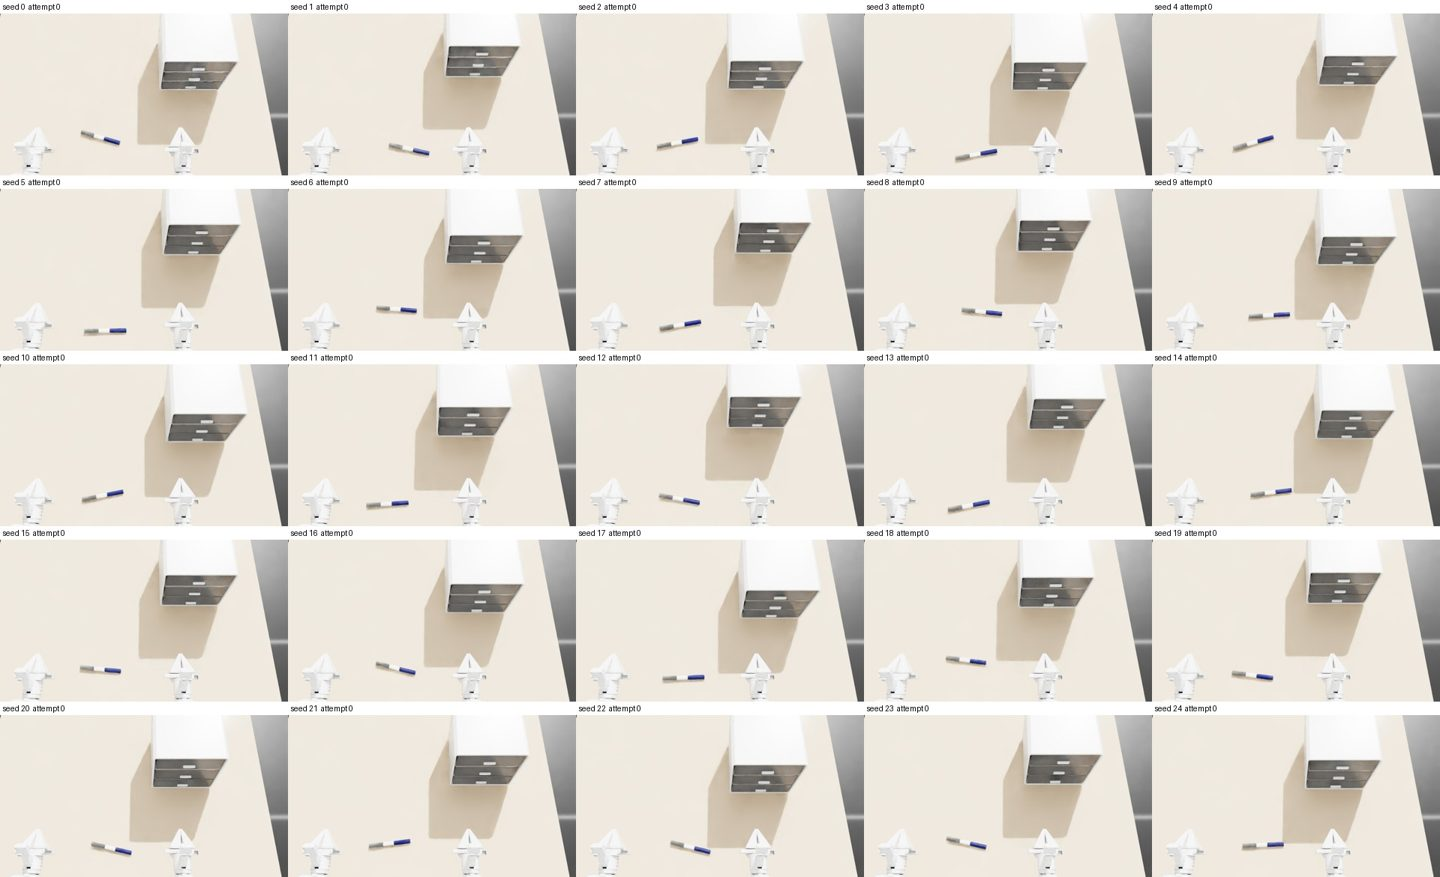
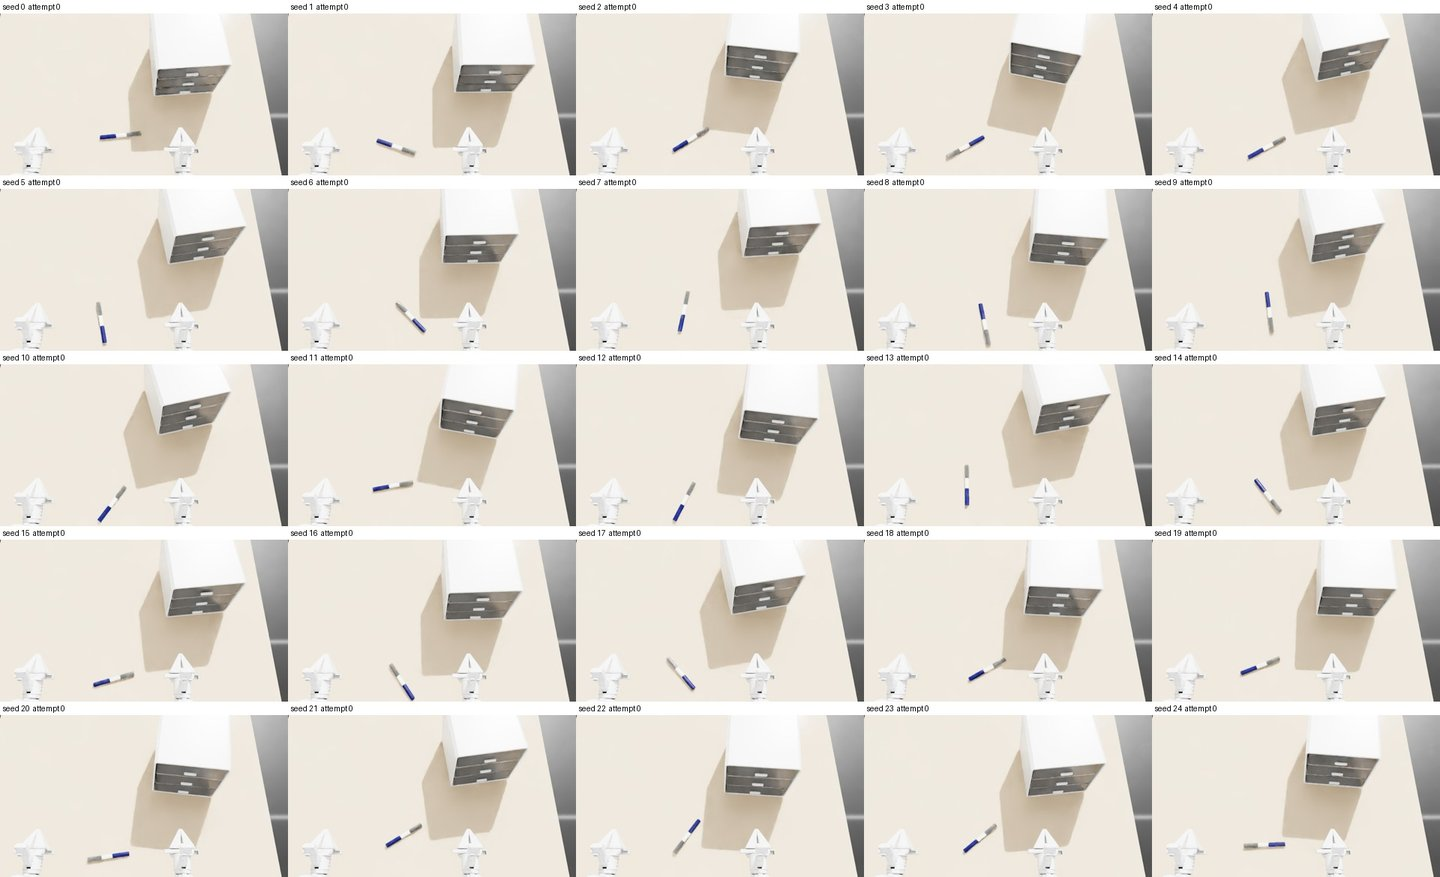
第四章与场景缩略图：新随机化与 3e2c8a0 批量结果

diff --git a/docs/tutorials/04-scene.md b/docs/tutorials/04-scene.md
@@ -84,12 +84,16 @@ def solve(ctx):
 | 运动原语 | 到把手前方用 `move_to_pose_with_RRTConnect`，贴近、拉动、后撤用 `move_to_pose_with_screw`；`open_gripper`、`close_gripper` |
 | 接触许可 | 抓把手前 `allow(['cabinet:cabinet.drawer3.handle'])`，松开后撤销；拉抽屉时 `carry` 把抽屉当作随手移动的物体；笔夹起后 `attach` |
 | 几何查询 | 把手、抽屉前板、内腔、底板的包围盒（`ctx.geometry['cabinet'].bounds(部件, 刚体)`），笔的质心（`ctx.center_of_mass`），抽屉开度（`ctx.joint('cabinet', 'cabinet_drawer3_slide')`） |
-| 抓取几何 | `build_grasp_pose(接近方向, 闭合方向, 中心)`：把手从前方斜向下 30° 接近，两指夹住把手两端；笔从上方接近，在质心处横夹 |
+| 抓取几何 | `build_grasp_pose(接近方向, 闭合方向, 中心)`：把手从前方斜向下 30° 接近，两指夹住把手两端；笔在质心处横夹，从上方接近 |
 
 所有目标都由物体当下的位姿和资产几何算出，不按 seed 写特例。重试只有列明的几种：
 
 - 后撤距离与抬起高度按候选依次尝试（`first_reachable`）；
+- 抓笔：笔可能朝任意方向，候选依次是两种对称的手腕转向（先试闭合方向更接近机器人后方的一种），每种先竖直接近，再绕笔轴侧倾 ±20°（笔身是圆柱，侧倾仍是横夹）；
+- 放笔：笔在抽屉里朝哪头都行，也可以相对抽屉转 ±20°（笔长 0.18 m，抽屉内宽 0.25 m、露出约 0.11 m），手倾斜 40° 或 20°；先试手腕转动最少的方向；
 - 拉抽屉分 3 段，每段检查抽屉是否跟上，跟不上就松手重抓，最多 2 次。
+
+候选是物理上等价的几种做法，不是针对某个 seed 的特例。最初只有一种抓法和一种放法，笔大致顺着机器人前后方向时够不着，柜子转离右手时放不进去，100 个 seed 只成功 63 个。
 
 失败用 `ctx.fail(原因)` 结束，记录子任务。
 
@@ -112,23 +116,19 @@ uv run python scripts/scenes/generate.py 000000 --seeds 0:100 --output outputs/s
 uv run python scripts/scenes/summarize.py outputs/scenes/000000/gen/part* --output outputs/scenes/000000/gen/summary.json
 ```
 
-本例结果：在提交 3d648a5 上，seed 0–99 分 4 个进程并行生成。
+本例结果：在提交 3e2c8a0 上，seed 0–99 分 4 个进程并行生成。
 
 - 初态全部第一次通过。
-- 成功 97 条，平均 27.4 s（684 步）。各子任务平均用时：开抽屉 9.5 s，拿笔 4.7 s，放笔 4.8 s，关抽屉 8.4 s。
-- 没有意外接触。手指碰过的只有把手和笔，另有 2 条碰到了抽屉前板。
-- 每条墙钟约 54 s：
-  - 规划 22 s：每条 3 次 RRTConnect，每次约 6.9 s；另有约 16 次直线规划，每次约 0.1 s；
-  - 执行 24 s；
-  - 初态 1.8 s。
-- 失败 3 条（seed 30、35、90），都在 `close the drawer`：
-  - 笔放进抽屉后一端翘起 2–4°；
-  - 之前抽屉已被推进一些，关抽屉时被卡住；
-  - 35、90 在柜子移动 1.6 cm、2.2 cm 时停止；30 重新抓把手时抓空。
+- 成功 98 条，平均 27.7 s（692 步）。各子任务平均用时：开抽屉 9.4 s，拿笔 5.0 s，放笔 5.1 s，关抽屉 8.2 s。
+- 用到候选：14 条换了抓笔方式，20 条换了放笔方式。
+- 没有意外接触。手指碰过的只有把手和笔，另有 3 条碰到了抽屉前板。
+- 每条墙钟平均 63 s，最长 152 s：
+  - 规划 32 s：每条平均 5.6 次 RRTConnect，每次约 5.4 s，其中一部分是失败候选的尝试；另有约 18 次直线规划，每次约 0.1 s；
+  - 执行 23 s；
+  - 初态 1.7 s。
+- 失败 2 条（seed 24、40），都在 `close the drawer`：40 关抽屉时卡住，柜子移动 2.4 cm 时停止；24 重新抓把手时抓空。
 
-开发过程中曾在提交 8f4f0ff 上跑过同样的一批，也是 97 条成功，失败的 seed 相同。那时还没有柜子移动检查，其中两次专家松手重抓后继续推，把整个柜子推动了 10–15 cm。之后专家加了这项检查：柜子移动超过 1 cm 就停止。
-
-单独重跑时，35、90 能成功；在批量负载下仍失败，见第 5 节。
+关抽屉的失败在改随机化之前就有，比例相近：笔放进抽屉后一端翘起几度，之前抽屉又被推进一些，关抽屉时被卡住。开发中专家曾在卡住后松手重抓、继续推，把整个柜子推动 10–15 cm；现在柜子移动超过 1 cm 就停止。
 
 | 输出 | 内容 |
 | --- | --- |
@@ -151,7 +151,7 @@ uv run python scripts/scenes/summarize.py outputs/scenes/000000/gen/part* --outp
 - 实测同一 seed（0、30）两次运行的动作逐位相同。
 - 设置之前，同一 seed 重跑的步数会差 1–2 步。
 
-RRTConnect 有规划时限，机器负载不同时仍可能走出不同的路径。例如 seed 35、90 单独运行成功，4 个进程并行时失败。所以复现轨迹以录制的文件为准。
+RRTConnect 有规划时限，机器负载不同时仍可能走出不同的路径。例如在改随机化之前，seed 35、90 单独运行成功，4 个进程并行时失败。所以复现轨迹以录制的文件为准。
 
 ## 6. 渲染与评审
 
